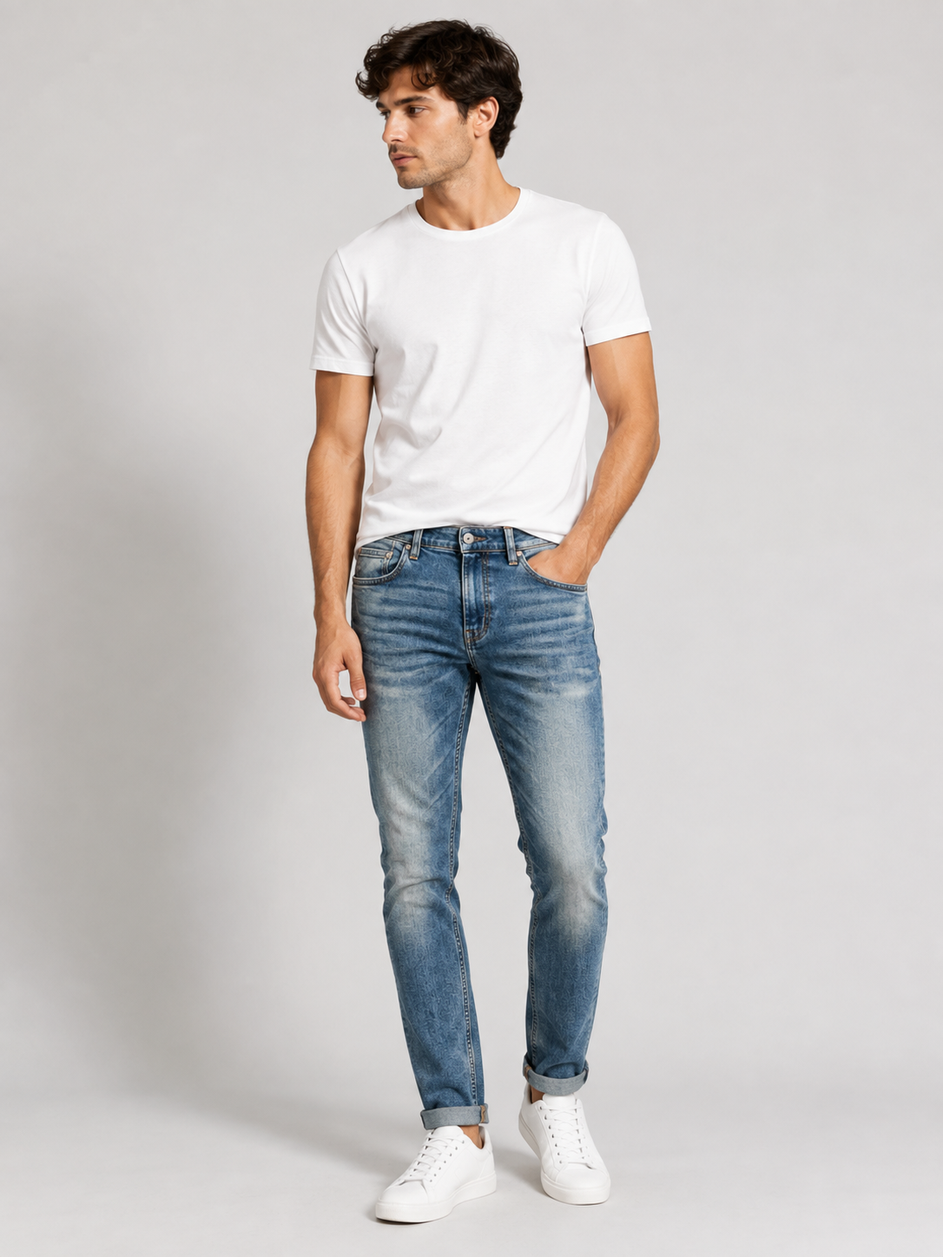
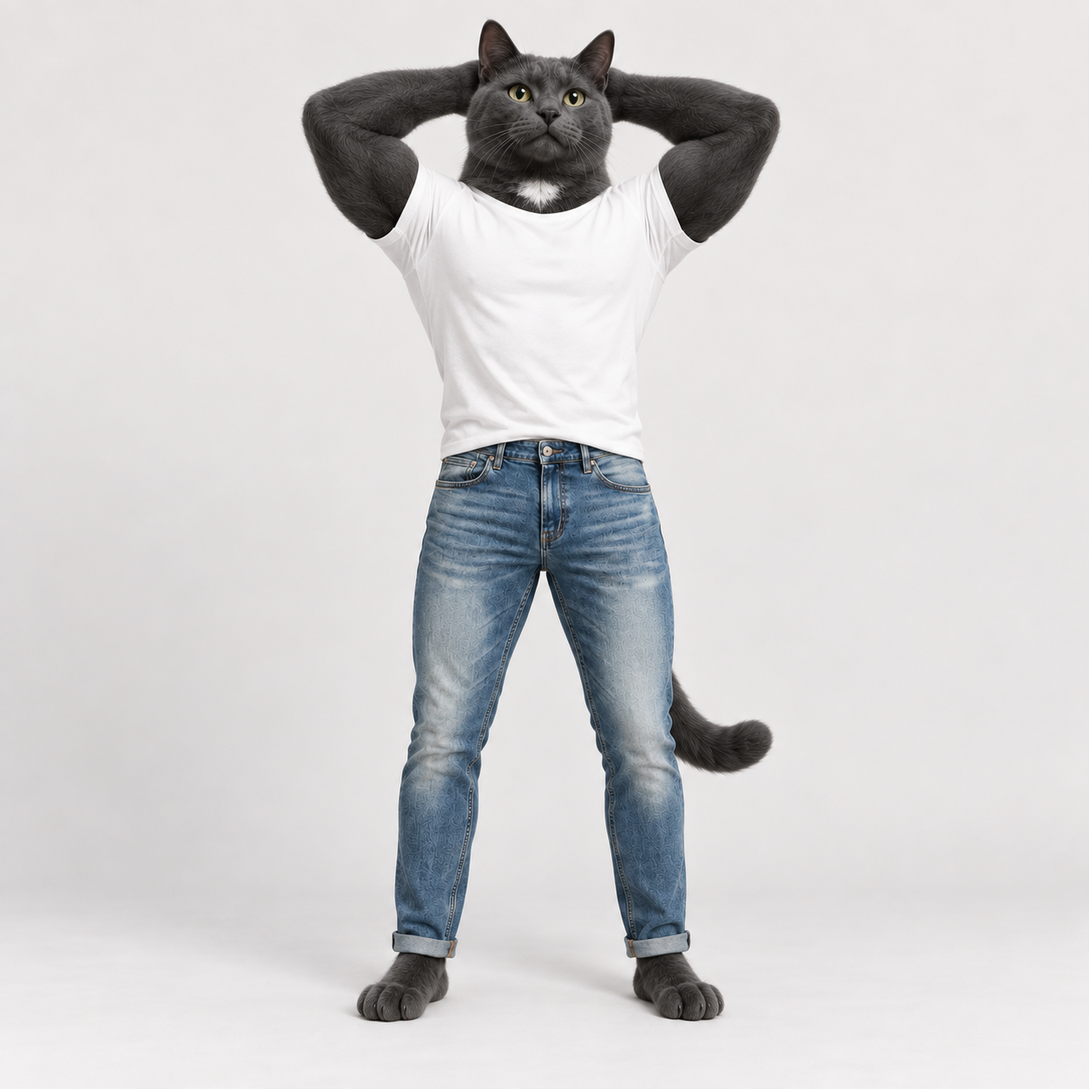
Rebrand storefront with Luchik cat models

diff --git a/src/app/info/[slug]/page.js b/src/app/info/[slug]/page.js
@@ -1,10 +1,10 @@
 import InfoContent from "@/components/info/InfoContent";
 
 const pages = {
-  about:{ru:{title:"О магазине SHOP.CO",text:"Учебный интернет-магазин одежды. Здесь можно выбирать варианты товара, оформлять бронирование и общаться с магазином через личный кабинет."},en:{title:"About SHOP.CO",text:"A demo online clothing store where you can choose product variants, reserve orders, and contact the store through your account."}},
+  about:{ru:{title:"О магазине LUCHIK.CO",text:"Учебный интернет-магазин одежды. Здесь можно выбирать варианты товара, оформлять бронирование и общаться с магазином через личный кабинет."},en:{title:"About LUCHIK.CO",text:"A demo online clothing store where you can choose product variants, reserve orders, and contact the store through your account."}},
   delivery:{ru:{title:"Доставка",text:"При оформлении выберите курьера или пункт выдачи. Срок и стоимость подтверждает администратор в сообщении по заказу.",sections:[{title:"Курьер",text:"Адрес сохраняется в заказе. В демо-режиме курьер не вызывается, а статус меняется администратором."},{title:"Пункт выдачи",text:"В учебной версии используется демонстрационный вариант самовывоза без передачи данных реальной службе доставки."},{title:"Отслеживание",text:"Каждый заказ получает демонстрационный трек-номер. Его состояние следует за статусом заказа в личном кабинете."}]},en:{title:"Delivery",text:"Choose courier delivery or a pickup point at checkout. The administrator will confirm the delivery time and cost in an order message.",sections:[{title:"Courier",text:"The address is stored with the order. No real courier is dispatched in demo mode; the administrator updates the status."},{title:"Pickup point",text:"The training version uses a simulated pickup option and sends no details to a real delivery company."},{title:"Tracking",text:"Every order receives a demo tracking number that follows the order status in the customer account."}]}},
   returns:{ru:{title:"Возврат товара",text:"Неношеный товар можно вернуть в течение 30 дней. Сохраните упаковку и напишите администратору через уведомления заказа.",sections:[{title:"Срок",text:"Демонстрационная политика предполагает обращение в течение 30 дней после получения."},{title:"Состояние товара",text:"Товар считается подходящим для возврата, если не использовался и сохранил комплектность и упаковку."},{title:"Как обратиться",text:"Откройте заказ в личном кабинете и ответьте на сообщение администратора. Реальная отправка и возврат денег не выполняются."}]},en:{title:"Returns",text:"Unused items can be returned within 30 days. Keep the packaging and contact the administrator through your order notifications.",sections:[{title:"Return period",text:"The demo policy allows a request within 30 days after delivery."},{title:"Item condition",text:"An item is eligible when unused and kept complete with its original packaging."},{title:"How to request",text:"Open the order in your account and reply to the administrator. No real shipment or refund is performed."}]}},
-  terms:{ru:{title:"Условия использования",text:"Оформление в текущей учебной версии является бронированием. Настоящее списание денежных средств не производится.",sections:[{title:"Назначение",text:"SHOP.CO используется для демонстрации интерфейса интернет-магазина, аккаунтов, каталога и административной панели."},{title:"Заказы",text:"Созданный заказ попадает в учебную базу и меняет демонстрационные остатки, но не создаёт обязательства по продаже или доставке."},{title:"Оплата",text:"Поля тестовой карты не передаются платёжной системе и не сохраняются. Используйте только вымышленные данные."}]},en:{title:"Terms and Conditions",text:"Checkout in this demo version creates a reservation. No real payment is charged.",sections:[{title:"Purpose",text:"SHOP.CO demonstrates a storefront, customer accounts, a catalog, and an administration dashboard."},{title:"Orders",text:"An order is stored in the training database and updates demo stock, but creates no obligation to sell or deliver goods."},{title:"Payment",text:"Demo card fields are not sent to a payment provider or stored. Use fictional details only."}]}},
+  terms:{ru:{title:"Условия использования",text:"Оформление в текущей учебной версии является бронированием. Настоящее списание денежных средств не производится.",sections:[{title:"Назначение",text:"LUCHIK.CO используется для демонстрации интерфейса интернет-магазина, аккаунтов, каталога и административной панели."},{title:"Заказы",text:"Созданный заказ попадает в учебную базу и меняет демонстрационные остатки, но не создаёт обязательства по продаже или доставке."},{title:"Оплата",text:"Поля тестовой карты не передаются платёжной системе и не сохраняются. Используйте только вымышленные данные."}]},en:{title:"Terms and Conditions",text:"Checkout in this demo version creates a reservation. No real payment is charged.",sections:[{title:"Purpose",text:"LUCHIK.CO demonstrates a storefront, customer accounts, a catalog, and an administration dashboard."},{title:"Orders",text:"An order is stored in the training database and updates demo stock, but creates no obligation to sell or deliver goods."},{title:"Payment",text:"Demo card fields are not sent to a payment provider or stored. Use fictional details only."}]}},
   privacy:{ru:{title:"Политика конфиденциальности",text:"Данные аккаунта и заказа используются только для работы магазина. Пароли обрабатывает защищённая система Supabase Auth, и магазин их не видит.",sections:[{title:"Какие данные сохраняются",text:"Email, имя, контактные данные, адрес доставки, состав заказа, отзывы, вопросы и переписка по заказу."},{title:"Пароли",text:"Пароли передаются непосредственно Supabase Auth и хранятся только в защищённом виде. Администратор не может их просматривать."},{title:"Платёжные данные",text:"Тестовые номер карты, срок и CVC существуют только на странице до оформления и никогда не записываются в базу."}]},en:{title:"Privacy Policy",text:"Account and order details are used only to operate the store. Passwords are handled by Supabase Auth and are never visible to the store.",sections:[{title:"Data stored",text:"Email, name, contact details, delivery address, order contents, reviews, questions, and order messages."},{title:"Passwords",text:"Passwords go directly to Supabase Auth and are stored only in protected form. The administrator cannot view them."},{title:"Payment details",text:"Demo card number, expiry, and CVC exist only on the checkout page and are never stored in the database."}]}},
   support:{ru:{title:"Поддержка покупателей",text:"Задайте вопрос на странице товара или ответьте администратору в уведомлениях личного кабинета."},en:{title:"Customer Support",text:"Ask a question on a product page or reply to the administrator through notifications in your account."}},
   payments:{ru:{title:"Оплата",text:"Доступны бронирование без оплаты, демонстрационная карта и демонстрационный СБП. Реальная оплата пока не подключена.",sections:[{title:"Бронирование",text:"Создаёт заказ без платёжного шага и передаёт его администратору со статусом «Новый»."},{title:"Тестовая карта",text:"Проверяется только формат вымышленных реквизитов. Списания, проверки банка и сохранения номера карты нет."},{title:"Демонстрационный СБП",text:"Имитирует успешное подтверждение после согласия пользователя. QR-код и банковское приложение не используются."}]},en:{title:"Payments",text:"Reservation without payment, a demo bank card, and a demo fast-payment option are available. Real payments are not connected yet.",sections:[{title:"Reservation",text:"Creates an order without payment and sends it to the administrator with New status."},{title:"Demo card",text:"Only the format of fictional details is checked. There is no charge, bank verification, or card-number storage."},{title:"Demo fast payment",text:"Simulates confirmation after user consent. No QR code or banking application is involved."}]}},

diff --git a/src/app/account/page.js b/src/app/account/page.js
@@ -98,7 +98,7 @@ export default function AccountPage() {
   if (loading) return <main className="container-main min-h-[50vh] py-20 text-center">{language === "ru" ? "Загрузка…" : "Loading…"}</main>;
   if (!configured || !user) return <main className="container-main flex min-h-[50vh] flex-col items-center justify-center py-12 text-center"><h1 className="font-integral text-3xl font-bold md:text-5xl">{language === "ru" ? "МОЙ АККАУНТ" : "MY ACCOUNT"}</h1><p className="mt-3 text-black/55">{language === "ru" ? "Войдите, чтобы посмотреть профиль и заказы." : "Sign in to view your profile and orders."}</p><Link href="/signup" className="mt-7 rounded-full bg-black px-9 py-3.5 font-semibold text-white">{language === "ru" ? "Войти или создать аккаунт" : "Sign in or create account"}</Link></main>;
 
-  return <main className="container-main py-6 md:py-20"><div className="mx-auto max-w-4xl rounded-[24px] bg-[#f2f2f2] p-3 sm:p-7 md:rounded-[32px] md:p-10"><div className="flex flex-col justify-between gap-5 sm:flex-row sm:items-center"><div><div className="text-xs text-black/45 sm:text-sm">{language === "ru" ? "АККАУНТ SHOP.CO" : "SHOP.CO ACCOUNT"}</div><h1 className="mt-2 break-words font-integral text-2xl font-bold sm:text-3xl">{profile?.full_name || user.user_metadata?.full_name || (language === "ru" ? "Мой аккаунт" : "My Account")}</h1><p className="mt-2 break-all text-sm text-black/55 sm:text-base">{user.email}</p></div><div className="flex flex-col gap-3 sm:items-end">{isOwnerAdmin && <Link href="/admin" className="rounded-full bg-black px-6 py-3 text-center font-semibold text-white hover:bg-black/80">{language === "ru" ? "Панель администратора" : "Admin panel"}</Link>}<button onClick={signOut} className="rounded-full border border-black/15 bg-white px-6 py-3 font-semibold">{language === "ru" ? "Выйти" : "Sign out"}</button></div></div>
+  return <main className="container-main py-6 md:py-20"><div className="mx-auto max-w-4xl rounded-[24px] bg-[#f2f2f2] p-3 sm:p-7 md:rounded-[32px] md:p-10"><div className="flex flex-col justify-between gap-5 sm:flex-row sm:items-center"><div><div className="text-xs text-black/45 sm:text-sm">{language === "ru" ? "АККАУНТ LUCHIK.CO" : "LUCHIK.CO ACCOUNT"}</div><h1 className="mt-2 break-words font-integral text-2xl font-bold sm:text-3xl">{profile?.full_name || user.user_metadata?.full_name || (language === "ru" ? "Мой аккаунт" : "My Account")}</h1><p className="mt-2 break-all text-sm text-black/55 sm:text-base">{user.email}</p></div><div className="flex flex-col gap-3 sm:items-end">{isOwnerAdmin && <Link href="/admin" className="rounded-full bg-black px-6 py-3 text-center font-semibold text-white hover:bg-black/80">{language === "ru" ? "Панель администратора" : "Admin panel"}</Link>}<button onClick={signOut} className="rounded-full border border-black/15 bg-white px-6 py-3 font-semibold">{language === "ru" ? "Выйти" : "Sign out"}</button></div></div>
     <div className="mt-8 rounded-3xl bg-white p-6"><div className="flex items-center justify-between gap-4"><h2 className="text-xl font-bold">{language === "ru" ? "Контактные данные" : "Contact details"}</h2><button onClick={()=>setDetailsOpen((value)=>!value)} className="rounded-full border border-black/15 px-4 py-2 font-semibold">{detailsOpen ? (language === "ru" ? "Отмена" : "Cancel") : (language === "ru" ? "Изменить" : "Edit")}</button></div>{detailsNotice&&<p className="mt-3 rounded-xl bg-[#d7ff5f] p-3 text-sm">{detailsNotice}</p>}{detailsOpen?<div className="mt-4 grid gap-3 sm:grid-cols-2">{[["full_name",language==="ru"?"Имя":"Name"],["phone",language==="ru"?"Телефон":"Phone"],["city",language==="ru"?"Город":"City"],["postal_code",language==="ru"?"Индекс":"Postal code"],["address",language==="ru"?"Адрес":"Address"]].map(([key,label])=><label key={key} className={key==="address"?"sm:col-span-2":""}><span className="mb-1 block text-sm text-black/50">{label}</span><input value={details[key]} onChange={(event)=>setDetails((current)=>({...current,[key]:event.target.value}))} className="w-full rounded-full bg-[#f2f2f2] px-5 py-3 outline-none focus:ring-2 focus:ring-black"/></label>)}<button onClick={saveDetails} className="rounded-full bg-black px-6 py-3 font-semibold text-white sm:col-span-2">{language==="ru"?"Сохранить":"Save"}</button></div>:<div className="mt-3 grid gap-2 text-black/60 sm:grid-cols-2"><p>{details.phone || "—"}</p><p>{details.city || "—"}</p><p className="sm:col-span-2">{[details.address,details.postal_code].filter(Boolean).join(", ") || "—"}</p></div>}</div>
     {notifications.length > 0 && <div className="mt-6 overflow-hidden rounded-3xl bg-black text-white sm:mt-8"><button onClick={toggleNotifications} className="flex w-full items-center justify-between p-4 text-left sm:p-6"><h2 className="text-base font-bold sm:text-xl">{language === "ru" ? "Уведомления" : "Notifications"}{unreadNotifications.length > 0 && <span className="ml-2 rounded-full bg-[#ff3333] px-2 py-0.5 text-xs text-white">{unreadNotifications.length} {language === "ru" ? "новых" : "new"}</span>}</h2><span className={`text-xl transition-transform sm:text-2xl ${notificationsOpen ? "rotate-180" : ""}`}>⌄</span></button>{notificationsOpen && <div className="max-h-[520px] space-y-5 overflow-y-auto border-t border-white/15 p-4 sm:p-6">{replyNotice&&<p className="rounded-xl bg-[#d7ff5f] p-3 text-sm text-black">{replyNotice}</p>}{[[language==="ru"?"Новые":"New",unreadNotifications],[language==="ru"?"Прочитанные":"Read",readNotifications]].map(([title,list])=>list.length>0&&<section key={title}><h3 className="mb-2 text-xs font-bold uppercase tracking-wider text-white/50">{title} ({list.length})</h3><div className="space-y-3">{list.map((item)=><div key={item.id} className={`rounded-2xl p-4 ${!item.is_read?"ring-2 ring-[#ff3333]": "opacity-75"} ${item.sender==="customer"?"bg-[#d7ff5f] text-black":"bg-white/10"}`}><div className="mb-1 text-xs font-bold uppercase opacity-50">{item.sender==="customer"?(language==="ru"?"Вы":"You"):(language==="ru"?"Магазин":"Store")}</div><p>{formatNotificationMessage(item.message, language)}</p><div className="mt-1 text-xs opacity-45">{new Date(item.created_at).toLocaleString(language === "ru" ? "ru-RU" : "en-US")}</div>{item.sender==="admin"&&item.allow_reply&&<button onClick={()=>setReplyingTo(replyingTo===item.id?null:item.id)} className="mt-3 rounded-full bg-white px-4 py-2 text-sm font-semibold text-black">{language==="ru"?"Ответить":"Reply"}</button>}{replyingTo===item.id&&<div className="mt-3 grid gap-2 sm:flex"><input value={replyText} onChange={(event)=>setReplyText(event.target.value)} placeholder={language==="ru"?"Напишите ответ…":"Write a reply…"} className="min-w-0 flex-1 rounded-full bg-white px-4 py-2 text-black"/><button onClick={()=>sendReply(item)} className="rounded-full bg-[#d7ff5f] px-4 py-2 font-semibold text-black">{language==="ru"?"Отправить":"Send"}</button></div>}</div>)}</div></section>)}</div>}</div>}
     <div className="mt-6 rounded-3xl bg-white p-3 sm:mt-8 sm:p-6"><h2 className="text-lg font-bold sm:text-xl">{language === "ru" ? "Ваши заказы" : "Your orders"}</h2>{orders.length ? <><div className="mt-4 grid grid-cols-3 gap-1 rounded-2xl bg-[#f2f2f2] p-1 sm:gap-2">{orderTabs.map(([id,label])=><button key={id} onClick={()=>setOrderFilter(id)} className={`min-w-0 rounded-xl px-1 py-2.5 text-[10px] font-semibold transition-colors sm:px-4 sm:text-sm ${orderFilter===id?"bg-black text-white shadow-sm":"text-black/55 hover:text-black"}`}><span className="block truncate">{label}</span><span className={`mt-0.5 block text-[10px] ${orderFilter===id?"text-white/65":"text-black/35"}`}>{orderGroups[id].length}</span></button>)}</div>{visibleOrders.length?<div className="mt-4 space-y-4">{visibleOrders.map((order)=><AccountOrderCard key={order.id} order={order} language={language} onCancel={cancelOrder} />)}</div>:<div className="mt-4 rounded-2xl bg-[#f7f7f7] p-8 text-center text-sm text-black/45">{language==="ru"?"В этом разделе заказов пока нет.":"There are no orders in this section yet."}</div>}</> : <p className="mt-2 text-black/50">{language === "ru" ? "Заказов пока нет." : "No orders yet."}</p>}</div>

diff --git a/src/components/common/SiteTranslator.js b/src/components/common/SiteTranslator.js
@@ -39,7 +39,7 @@ const RU = {
   "OUR HAPPY CUSTOMERS": "ОТЗЫВЫ НАШИХ ПОКУПАТЕЛЕЙ", "Available colors": "Доступные цвета", "Product quantity": "Количество товара",
   "Posted on": "Опубликовано", "Size:": "Размер:", "Color:": "Цвет:",
   "We have clothes that suits your style and which you're proud to wear. From women to men.": "Мы собрали одежду, которая подходит вашему стилю и которую приятно носить — для женщин и мужчин.",
-  "Shop.co © 2000-2023, All Rights Reserved": "Shop.co © 2000–2026. Все права защищены",
+  "Luchik.co © 2000-2023, All Rights Reserved": "Luchik.co © 2000–2026. Все права защищены",
   "Gradient Graphic T-shirt": "Футболка с градиентным принтом", "Polo with Tipping Details": "Поло с контрастной отделкой",
   "T-shirt with Tape Details": "Футболка с декоративными лентами", "Skinny Fit Jeans": "Зауженные джинсы",
   "Checkered Shirt": "Рубашка в клетку", "Sleeve Striped T-shirt": "Футболка с полосатыми рукавами",
@@ -63,11 +63,11 @@ const RU = {
   "Casual Style": "Повседневный стиль", "Formal Style": "Деловой стиль", "Party Style": "Стиль для вечеринки", "Gym Style": "Спортивный стиль",
   "Featured brands": "Популярные бренды", "August 14, 2023": "14 августа 2023", "August 15, 2023": "15 августа 2023",
   "August 16, 2023": "16 августа 2023", "August 17, 2023": "17 августа 2023", "August 18, 2023": "18 августа 2023",
-  "I'm blown away by the quality and style of the clothes I received from Shop.co. From casual wear to elegant dresses, every piece I've bought has exceeded my expectations.": "Я в восторге от качества и стиля одежды Shop.co. Каждая покупка — от повседневных вещей до элегантных платьев — превзошла мои ожидания.",
-  "Finding clothes that align with my personal style used to be a challenge until I discovered Shop.co. The range of options they offer is truly remarkable, catering to a variety of tastes and occasions.": "Раньше мне было трудно находить одежду под свой стиль, пока я не открыл Shop.co. Здесь действительно впечатляющий выбор для разных вкусов и случаев.",
-  "As someone who's always on the lookout for unique fashion pieces, I'm thrilled to have stumbled upon Shop.co. The selection of clothes is not only diverse but also on-point with the latest trends.": "Я всегда ищу необычные модные вещи и рад, что нашёл Shop.co. Ассортимент здесь разнообразный и точно соответствует современным трендам.",
-  "As a frequent online shopper, I've seen it all. But Shop.co manages to surprise me every time. The website navigation is seamless, and their delivery is incredibly fast. Plus, the fits are always perfect!": "Я часто покупаю в интернете, но Shop.co каждый раз приятно удивляет. Сайт удобный, доставка быстрая, а вещи всегда отлично сидят.",
-  "I've been shopping at Shop.co for months, and they never disappoint. The quality of fabric is top-notch, and they keep adding trendy pieces. Highly recommend!": "Я покупаю в Shop.co уже несколько месяцев и ни разу не разочаровался. Ткани отличного качества, а модные новинки появляются регулярно. Рекомендую!"
+  "I'm blown away by the quality and style of the clothes I received from Luchik.co. From casual wear to elegant dresses, every piece I've bought has exceeded my expectations.": "Я в восторге от качества и стиля одежды Luchik.co. Каждая покупка — от повседневных вещей до элегантных платьев — превзошла мои ожидания.",
+  "Finding clothes that align with my personal style used to be a challenge until I discovered Luchik.co. The range of options they offer is truly remarkable, catering to a variety of tastes and occasions.": "Раньше мне было трудно находить одежду под свой стиль, пока я не открыл Luchik.co. Здесь действительно впечатляющий выбор для разных вкусов и случаев.",
+  "As someone who's always on the lookout for unique fashion pieces, I'm thrilled to have stumbled upon Luchik.co. The selection of clothes is not only diverse but also on-point with the latest trends.": "Я всегда ищу необычные модные вещи и рад, что нашёл Luchik.co. Ассортимент здесь разнообразный и точно соответствует современным трендам.",
+  "As a frequent online shopper, I've seen it all. But Luchik.co manages to surprise me every time. The website navigation is seamless, and their delivery is incredibly fast. Plus, the fits are always perfect!": "Я часто покупаю в интернете, но Luchik.co каждый раз приятно удивляет. Сайт удобный, доставка быстрая, а вещи всегда отлично сидят.",
+  "I've been shopping at Luchik.co for months, and they never disappoint. The quality of fabric is top-notch, and they keep adding trendy pieces. Highly recommend!": "Я покупаю в Luchik.co уже несколько месяцев и ни разу не разочаровался. Ткани отличного качества, а модные новинки появляются регулярно. Рекомендую!"
 };
 
 const PHRASES = [
@@ -94,13 +94,13 @@ function translateValue(value) {
   if (RU[trimmed]) return value.replace(trimmed, RU[trimmed]);
   const brandUpper = "\uE000";
   const brandTitle = "\uE001";
-  let result = value.replaceAll("SHOP.CO", brandUpper).replaceAll("Shop.co", brandTitle);
+  let result = value.replaceAll("LUCHIK.CO", brandUpper).replaceAll("Luchik.co", brandTitle);
   for (const [from, to] of PHRASES) result = result.replaceAll(from, to);
   for (const [from, to] of Object.entries(RU)) {
     result = result.replaceAll(from, to);
     result = result.replaceAll(from.toUpperCase(), to.toUpperCase());
   }
-  return result.replaceAll(brandUpper, "SHOP.CO").replaceAll(brandTitle, "Shop.co");
+  return result.replaceAll(brandUpper, "LUCHIK.CO").replaceAll(brandTitle, "Luchik.co");
 }
 
 function translateTree(root) {

diff --git a/src/app/signup/page.js b/src/app/signup/page.js
@@ -44,7 +44,7 @@ export default function SignupPage() {
     <main className="container-main py-12 md:py-20">
       <div className="mx-auto max-w-md rounded-[32px] border border-black/10 bg-white p-6 shadow-xl md:p-9">
         <h1 className="font-integral text-3xl font-bold">{mode === "recovery" ? (ru ? "НОВЫЙ ПАРОЛЬ" : "NEW PASSWORD") : mode === "signup" ? (ru ? "СОЗДАТЬ АККАУНТ" : "CREATE ACCOUNT") : (ru ? "ВОЙТИ" : "SIGN IN")}</h1>
-        <p className="mt-2 text-black/50">{mode === "recovery" ? (ru ? "Придумайте новый пароль для своего аккаунта." : "Choose a new password for your account.") : mode === "signup" ? (ru ? "Создайте аккаунт, чтобы отслеживать заказы и сохранять корзину." : "Create an account to track orders and save your cart.") : (ru ? "С возвращением в SHOP.CO." : "Welcome back to SHOP.CO.")}</p>
+        <p className="mt-2 text-black/50">{mode === "recovery" ? (ru ? "Придумайте новый пароль для своего аккаунта." : "Choose a new password for your account.") : mode === "signup" ? (ru ? "Создайте аккаунт, чтобы отслеживать заказы и сохранять корзину." : "Create an account to track orders and save your cart.") : (ru ? "С возвращением в LUCHIK.CO." : "Welcome back to LUCHIK.CO.")}</p>
         {!configured && <div className="mt-5 rounded-2xl bg-amber-50 p-4 text-sm">{ru ? "Supabase не настроен." : "Supabase is not configured."}</div>}
         <form onSubmit={submit} className="mt-7 space-y-4">
           {mode === "signup" && <input required placeholder={ru ? "Имя и фамилия" : "Full name"} value={form.name} onChange={(e)=>setForm({...form,name:e.target.value})} className="w-full rounded-full bg-[#f2f2f2] px-5 py-3.5" />}
@@ -56,7 +56,7 @@ export default function SignupPage() {
         </form>
         {mode !== "recovery" && <button disabled className="mt-3 w-full rounded-full border border-black/15 py-3.5 font-semibold opacity-40">{ru ? "Вход через Google — скоро" : "Google sign-in — coming soon"}</button>}
         {mode === "signin" && <button onClick={recover} className="mt-4 w-full text-sm underline">{ru ? "Забыли пароль?" : "Forgot password?"}</button>}
-        {mode === "recovery" ? <button onClick={()=>router.push("/account")} className="mt-5 w-full text-sm text-black/60 underline">{ru ? "Перейти в личный кабинет" : "Open my account"}</button> : <button onClick={()=>{setMode(mode === "signup" ? "signin" : "signup");setMessage("");setMessageError(false);}} className="mt-5 w-full text-sm text-black/60 underline">{mode === "signup" ? (ru ? "Уже есть аккаунт? Войти" : "Already have an account? Sign in") : (ru ? "Впервые в SHOP.CO? Создать аккаунт" : "New to SHOP.CO? Create account")}</button>}
+        {mode === "recovery" ? <button onClick={()=>router.push("/account")} className="mt-5 w-full text-sm text-black/60 underline">{ru ? "Перейти в личный кабинет" : "Open my account"}</button> : <button onClick={()=>{setMode(mode === "signup" ? "signin" : "signup");setMessage("");setMessageError(false);}} className="mt-5 w-full text-sm text-black/60 underline">{mode === "signup" ? (ru ? "Уже есть аккаунт? Войти" : "Already have an account? Sign in") : (ru ? "Впервые в LUCHIK.CO? Создать аккаунт" : "New to LUCHIK.CO? Create account")}</button>}
       </div>
     </main>
   );

diff --git a/src/data/reviews.js b/src/data/reviews.js
@@ -56,7 +56,7 @@ export const storeReviews = [
     rating: 5,
     verified: true,
     date: "August 14, 2023",
-    content: "I'm blown away by the quality and style of the clothes I received from Shop.co. From casual wear to elegant dresses, every piece I've bought has exceeded my expectations."
+    content: "I'm blown away by the quality and style of the clothes I received from Luchik.co. From casual wear to elegant dresses, every piece I've bought has exceeded my expectations."
   },
   {
     id: 2,
@@ -64,7 +64,7 @@ export const storeReviews = [
     rating: 5,
     verified: true,
     date: "August 15, 2023",
-    content: "Finding clothes that align with my personal style used to be a challenge until I discovered Shop.co. The range of options they offer is truly remarkable, catering to a variety of tastes and occasions."
+    content: "Finding clothes that align with my personal style used to be a challenge until I discovered Luchik.co. The range of options they offer is truly remarkable, catering to a variety of tastes and occasions."
   },
   {
     id: 3,
@@ -72,7 +72,7 @@ export const storeReviews = [
     rating: 5,
     verified: true,
     date: "August 16, 2023",
-    content: "As someone who's always on the lookout for unique fashion pieces, I'm thrilled to have stumbled upon Shop.co. The selection of clothes is not only diverse but also on-point with the latest trends."
+    content: "As someone who's always on the lookout for unique fashion pieces, I'm thrilled to have stumbled upon Luchik.co. The selection of clothes is not only diverse but also on-point with the latest trends."
   },
   {
     id: 4,
@@ -80,7 +80,7 @@ export const storeReviews = [
     rating: 5,
     verified: true,
     date: "August 17, 2023",
-    content: "As a frequent online shopper, I've seen it all. But Shop.co manages to surprise me every time. The website navigation is seamless, and their delivery is incredibly fast. Plus, the fits are always perfect!"
+    content: "As a frequent online shopper, I've seen it all. But Luchik.co manages to surprise me every time. The website navigation is seamless, and their delivery is incredibly fast. Plus, the fits are always perfect!"
   },
   {
     id: 5,
@@ -88,6 +88,6 @@ export const storeReviews = [
     rating: 5,
     verified: true,
     date: "August 18, 2023",
-    content: "I've been shopping at Shop.co for months, and they never disappoint. The quality of fabric is top-notch, and they keep adding trendy pieces. Highly recommend!"
+    content: "I've been shopping at Luchik.co for months, and they never disappoint. The quality of fabric is top-notch, and they keep adding trendy pieces. Highly recommend!"
   }
 ];

diff --git a/src/components/layout/Footer.js b/src/components/layout/Footer.js
@@ -28,7 +28,7 @@ export default function Footer() {
       <div className="mx-auto max-w-[1240px]">
         <div className="grid gap-10 border-b border-black/10 pb-12 sm:grid-cols-2 lg:grid-cols-[1.25fr_repeat(4,1fr)]">
           <div>
-            <h2 className="font-integral text-[30px] font-bold tracking-tight">SHOP.CO</h2>
+            <h2 className="font-integral text-[30px] font-bold tracking-tight">LUCHIK.CO</h2>
             <p className="mt-5 max-w-xs text-sm leading-6 text-black/55">{ru ? "Демонстрационный интернет-магазин одежды с каталогом, заказами и личным кабинетом." : "A demo fashion store with a catalog, orders, and customer accounts."}</p>
             <a href="https://github.com/vasiliy2197463-jpg/shopco-project-5" target="_blank" rel="noreferrer" className="mt-5 inline-flex h-10 w-10 items-center justify-center rounded-full border border-black/10 bg-white transition-colors hover:bg-black hover:text-white" aria-label="GitHub"><FaGithub /></a>
           </div>
@@ -36,7 +36,7 @@ export default function Footer() {
         </div>
 
         <div className="flex flex-col gap-5 pt-7 lg:flex-row lg:items-center lg:justify-between">
-          <div><p className="text-sm text-black/55">SHOP.CO © 2026. {ru ? "Учебная демонстрация." : "Training demo."}</p><p className="mt-1 text-xs text-black/35">{ru ? "Реальные платежи и доставка не подключены." : "Real payments and delivery are not connected."}</p></div>
+          <div><p className="text-sm text-black/55">LUCHIK.CO © 2026. {ru ? "Учебная демонстрация." : "Training demo."}</p><p className="mt-1 text-xs text-black/35">{ru ? "Реальные платежи и доставка не подключены." : "Real payments and delivery are not connected."}</p></div>
           <div className="flex flex-wrap gap-2">{["VISA", "Mastercard", "PayPal", "Apple Pay", "Google Pay"].map((name)=><span key={name} className="rounded-lg border border-black/5 bg-white px-3 py-2 text-xs font-bold shadow-sm">{name}</span>)}</div>
         </div>
       </div>

diff --git a/src/components/sections/BrandLogos.js b/src/components/sections/BrandLogos.js
@@ -1,12 +1,11 @@
-import Image from '@/components/common/BaseImage';
-
 export default function BrandLogos() {
   const brands = [
-    { src: '/images/brands/versace-official.svg', alt: 'Versace', className: 'h-[23px] sm:h-[27px] md:h-[33px]' },
-    { src: '/images/brands/zara-uploaded.png', alt: 'Zara', className: 'h-[23px] sm:h-[27px] md:h-[33px]' },
-    { src: '/images/brands/gucci-official.svg', alt: 'Gucci', className: 'h-[23px] sm:h-[27px] md:h-[33px]' },
-    { src: '/images/brands/prada-official.svg', alt: 'Prada', className: 'h-[23px] sm:h-[27px] md:h-[33px]' },
-    { src: '/images/brands/calvin-klein-official.svg', alt: 'Calvin Klein', className: 'h-[23px] sm:h-[27px] md:h-[33px]' },
+    'VERSA-CAT',
+    'ZAR-R-R-A',
+    'GUSSI',
+    'PRAVDA',
+    'LOUIS KOTTON',
+    'CALVIN KITTEN',
   ];
 
   return (
@@ -16,17 +15,10 @@ export default function BrandLogos() {
           <div className="brand-marquee__group" aria-hidden={group === 1} key={group}>
           {brands.map((brand) => (
             <div
-              key={`${group}-${brand.alt}`}
-              className="brand-marquee__logo transition-opacity hover:opacity-75 duration-300"
+              key={`${group}-${brand}`}
+              className="brand-marquee__logo whitespace-nowrap font-integral text-xl font-bold tracking-tight text-white transition-opacity duration-300 hover:opacity-75 sm:text-2xl md:text-[28px]"
             >
-              <Image
-                src={brand.src}
-                alt={brand.alt}
-                width={brand.width || 120}
-                height={brand.height || 35}
-                unoptimized
-                className={`${brand.className} w-auto object-contain select-none`}
-              />
+              {brand}
             </div>
           ))}
           </div>

diff --git a/src/components/sections/Hero.js b/src/components/sections/Hero.js
@@ -41,19 +41,11 @@ export default function Hero() {
           </div>
           
           <div className="flex-1 relative min-h-[350px] sm:min-h-[450px] md:min-h-[500px] lg:min-h-[600px] flex items-end justify-center lg:justify-end overflow-hidden">
-            <div className="absolute top-10 right-8 lg:top-24 lg:right-16 w-14 h-14 lg:w-[104px] lg:h-[104px] animate-pulse">
-              <svg viewBox="0 0 104 104" fill="none" xmlns="http://www.w3.org/2000/svg">
-                <path d="M52 0L63.5358 38.4642L102 50L63.5358 61.5358L52 100L40.4642 61.5358L2 50L40.4642 38.4642L52 0Z" fill="black"/>
-              </svg>
-            </div>
-            <div className="absolute top-1/3 left-4 lg:top-1/2 lg:left-10 w-9 h-9 lg:w-14 lg:h-14 animate-pulse">
-              <svg viewBox="0 0 56 56" fill="none" xmlns="http://www.w3.org/2000/svg">
-                <path d="M28 0L34.2114 20.7886L55 27L34.2114 33.2114L28 54L21.7886 33.2114L1 27L21.7886 20.7886L28 0Z" fill="black"/>
-              </svg>
-            </div>
+            <div className="absolute right-10 top-14 z-20 h-10 w-10 rotate-45 bg-black lg:right-16 lg:top-24 lg:h-16 lg:w-16" />
+            <div className="absolute left-6 top-1/3 z-20 h-6 w-6 rotate-45 bg-black lg:left-10 lg:top-1/2 lg:h-9 lg:w-9" />
             <Image 
               src="/images/hero/hero-banner.png" 
-              alt="Fashion models" 
+              alt="Luchik, Kuzya and Vitalik in tailored suits" 
               width={600}
               height={600}
               className="object-contain w-full max-w-[500px] lg:max-w-none h-auto z-10"

diff --git a/src/components/product/ProductTabs.js b/src/components/product/ProductTabs.js
@@ -18,7 +18,7 @@ export default function ProductTabs({ product, reviews = [], onSummaryChange }) 
   const [tab,setTab]=useState('details'), [liveReviews,setLiveReviews]=useState([]), [questions,setQuestions]=useState([]);
   const [showReview,setShowReview]=useState(false), [rating,setRating]=useState(0), [comment,setComment]=useState(''), [question,setQuestion]=useState('');
   const [notice,setNotice]=useState(''), [questionNotice,setQuestionNotice]=useState(''), [busy,setBusy]=useState(false);
-  const author = profile?.full_name || user?.user_metadata?.full_name || user?.email?.split('@')[0] || 'SHOP.CO customer';
+  const author = profile?.full_name || user?.user_metadata?.full_name || user?.email?.split('@')[0] || 'LUCHIK.CO customer';
   const loadReviews=useCallback(async()=>{ if(!supabase||!product?.id)return; const {data}=await supabase.from('product_reviews').select('*').eq('product_id',product.id).order('created_at',{ascending:false}); if(data)setLiveReviews(data.filter(x=>x.approved).map(x=>({id:x.id,author:x.author_name,rating:x.rating,verified:true,date:new Date(x.created_at).toLocaleDateString(language==='ru'?'ru-RU':'en-US'),content:x.comment}))); },[supabase,product?.id,language]);
   const loadQuestions=useCallback(async()=>{ if(!supabase||!product?.id)return; const {data}=await supabase.from('product_questions').select('*').eq('product_id',product.id).order('created_at',{ascending:false}); if(data)setQuestions(data); },[supabase,product?.id]);
   useEffect(()=>{loadReviews();loadQuestions();},[loadReviews,loadQuestions]);

diff --git a/src/lib/notifications.js b/src/lib/notifications.js
@@ -1,12 +1,12 @@
 export function formatNotificationMessage(message, language) {
   const systemMessages = {
     ACCOUNT_WELCOME: {
-      en: "Welcome to SHOP.CO! Your account has been created successfully.",
-      ru: "Добро пожаловать в SHOP.CO! Ваш аккаунт успешно создан.",
+      en: "Welcome to LUCHIK.CO! Your account has been created successfully.",
+      ru: "Добро пожаловать в LUCHIK.CO! Ваш аккаунт успешно создан.",
     },
     ACCOUNT_PASSWORD_CHANGED: {
-      en: "Your SHOP.CO account password was changed. If this wasn't you, reset it immediately.",
-      ru: "Пароль вашего аккаунта SHOP.CO изменён. Если это были не вы, немедленно восстановите пароль.",
+      en: "Your LUCHIK.CO account password was changed. If this wasn't you, reset it immediately.",
+      ru: "Пароль вашего аккаунта LUCHIK.CO изменён. Если это были не вы, немедленно восстановите пароль.",
     },
   };
   if (systemMessages[message]) return systemMessages[message][language === "ru" ? "ru" : "en"];

diff --git a/src/app/admin/page.js b/src/app/admin/page.js
@@ -403,7 +403,7 @@ export default function AdminPage() {
     await supabase.from("order_notifications").insert({
       user_id: item.user_id,
       sender: "admin",
-      message: `QUESTION_ANSWER:${product?.name || "SHOP.CO"}:${answer}`,
+      message: `QUESTION_ANSWER:${product?.name || "LUCHIK.CO"}:${answer}`,
       allow_reply: false,
     });
     setQuestions((current) =>
@@ -543,7 +543,7 @@ export default function AdminPage() {
       <header className="sticky top-0 z-50 border-b border-black/10 bg-white/95 backdrop-blur">
         <div className="mx-auto flex max-w-[1440px] items-center justify-between px-5 py-4 lg:px-10">
           <div>
-            <div className="font-integral text-2xl font-bold">SHOP.CO</div>
+            <div className="font-integral text-2xl font-bold">LUCHIK.CO</div>
             <div className="text-xs text-black/50">Панель управления</div>
           </div>
           <a

diff --git a/src/components/layout/Navbar.js b/src/components/layout/Navbar.js
@@ -242,7 +242,7 @@ export default function Navbar() {
           href="/"
           className="font-integral text-[24px] md:text-[32px] font-bold text-black tracking-tight ml-3 lg:ml-0 lg:mr-2 xl:mr-6 flex-shrink-0 flex items-center justify-center"
         >
-          SHOP.CO
+          LUCHIK.CO
         </Link>
 
         {/* Desktop Nav Links */}
@@ -584,7 +584,7 @@ export default function Navbar() {
       >
         <div className="p-4 flex items-center justify-between border-b border-[rgba(0,0,0,0.1)]">
           <span className="font-integral text-[24px] font-bold text-black tracking-tight">
-            SHOP.CO
+            LUCHIK.CO
           </span>
           <button
             onClick={() => setIsMenuOpen(false)}
